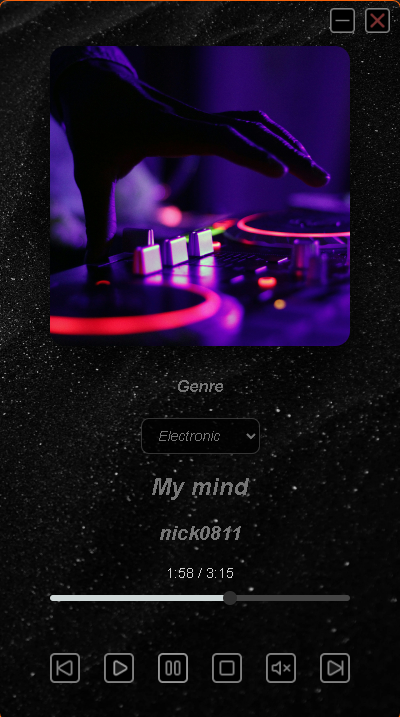
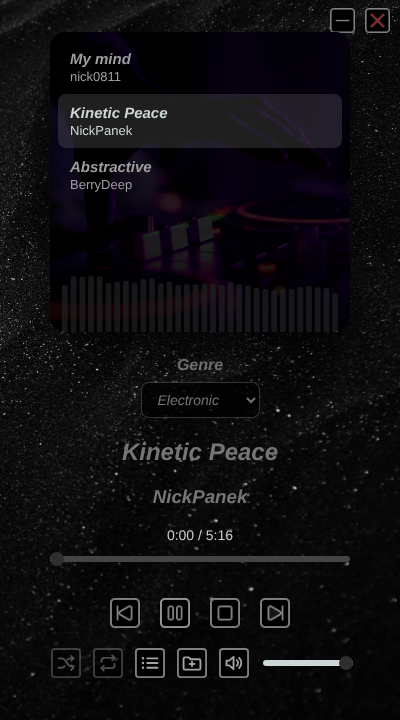
docs: update README for v1.1.0

diff --git a/README.md b/README.md
@@ -1,36 +1,70 @@
 # Kumafy
 
-A compact desktop music player built with Electron. Pick a genre, hit play, and enjoy a small library of royalty-free tracks in a minimal, frameless window.
+[![CI](https://github.com/MK-1379/kumafy/actions/workflows/ci.yml/badge.svg)](https://github.com/MK-1379/kumafy/actions/workflows/ci.yml)
+[![Latest release](https://img.shields.io/github/v/release/MK-1379/kumafy)](https://github.com/MK-1379/kumafy/releases/latest)
 
-## Screenshots
+A compact desktop music player built with Electron and vanilla JavaScript. Pick a genre or open your own files, and watch the music move in a live audio visualizer.
 
-![Piano playlist](docs/screenshots/piano.png)
-![Electronic playlist](docs/screenshots/electronic.png)
-![Pop and Indie playlist](docs/screenshots/pop-indie.png)
+**[Try the web demo](https://mk-1379.github.io/kumafy/)** · **[Download for Windows](https://github.com/MK-1379/kumafy/releases/latest)**
+
+| Visualizer | Track list | Shuffle and repeat |
+|---|---|---|
+| ![Piano playlist playing with the visualizer](docs/screenshots/piano.png) | ![Electronic playlist with the track list open](docs/screenshots/electronic.png) | ![Pop and Indie playlist with shuffle and repeat on](docs/screenshots/pop-indie.png) |
 
 ## Features
 
-- Three genre playlists (Piano, Electronic, Pop & Indie) with a cover for each
-- Play, pause, stop, mute, previous and next controls
-- Seek bar with elapsed and total time
-- Automatic advance to the next track
-- Custom frameless window with its own minimize and close buttons
+- Three genre playlists (Piano, Electronic, Pop & Indie) with royalty-free tracks
+- Open your own audio files (MP3, WAV, OGG, FLAC, M4A, AAC) with the native file dialog
+- Live audio visualizer built with the Web Audio API and a canvas
+- Play/pause, stop, previous, next, seek bar, volume and mute
+- Shuffle (Fisher-Yates) and three repeat modes: off, all and one
+- Clickable track list
+- Remembers the genre, track, volume, shuffle and repeat between sessions
+- Keyboard shortcuts and media keys, with the current track shown in the Windows media overlay
+- Accessible: real buttons with labels, visible focus, screen reader announcements and reduced motion support
+- Runs in the browser too, as a web demo on GitHub Pages
+
+## Keyboard shortcuts
+
+| Key | Action |
+|---|---|
+| Space / K | Play or pause |
+| ← / → | Seek 5 seconds |
+| ↑ / ↓ | Volume up or down |
+| N / P | Next or previous track |
+| M | Mute |
+| S | Shuffle |
+| R | Repeat mode |
+| L | Track list |
+| O | Open audio files |
+| Esc | Close the track list |
 
 ## Tech stack
 
-- [Electron](https://www.electronjs.org/) (main process, preload script, IPC)
-- HTML, CSS and vanilla JavaScript for the interface
-- [electron-builder](https://www.electron.build/) to package the Windows installer
+- [Electron](https://www.electronjs.org/) (main process, preload script, IPC, custom protocol)
+- HTML, CSS and vanilla JavaScript with ES modules
+- Web Audio API, Canvas and Media Session API
+- [Vitest](https://vitest.dev/) for unit tests and [Biome](https://biomejs.dev/) for linting and formatting
+- GitHub Actions for CI, the web demo and releases
+- [electron-builder](https://www.electron.build/) for the Windows installer
+
+## How it works
+
+**Security.** The window runs with `contextIsolation` and the Chromium sandbox, so it has no access to Node.js. The preload script exposes three functions and nothing else. A Content Security Policy only allows the app's own files, and the window cannot open popups or navigate away.
+
+**Opening local files.** The window never sees file paths. When you pick files, the main process stores their paths in an allowlist and gives the window URLs like `kumafy-media://file/1`. A custom protocol handler serves only those files, supports HTTP range requests so seeking works, and answers 404 to anything else. In the browser, the same feature uses a file input and `blob:` URLs.
+
+**Pure logic, tested.** Everything that decides something (play order, shuffle, repeat, saved state validation, keyboard mapping, range parsing, visualizer bars) lives in small functions without DOM access, covered by 59 unit tests. The DOM code only connects those functions to the interface.
 
 ## Download
 
-Grab the latest Windows installer from the [Releases page](https://github.com/MK-1379/kumafy/releases).
+Get the latest Windows installer from the [Releases page](https://github.com/MK-1379/kumafy/releases/latest).
 
 > Windows may show a SmartScreen warning because the installer is not code-signed. Click **More info**, then **Run anyway**.
 
 ## Run from source
 
-Requires [Node.js](https://nodejs.org/) 18 or later.
+Requires [Node.js](https://nodejs.org/) 22 or later.
 
 ```bash
 git clone https://github.com/MK-1379/kumafy.git
@@ -39,45 +73,60 @@ npm install
 npm start
 ```
 
-To build the installer:
+| Command | What it does |
+|---|---|
+| `npm start` | Run the desktop app |
+| `npm test` | Run the unit tests |
+| `npm run lint` | Check formatting and lint rules |
+| `npm run format` | Fix formatting |
+| `npm run dist` | Build the Windows installer in `dist/` |
 
-```bash
-npm run dist
-```
+To try the web version locally, serve the folder over HTTP, for example with `npx serve .`.
 
-The result is written to the `dist/` folder.
+## Releases
+
+Pushing a tag such as `v1.2.0` runs the release workflow: it checks that the tag matches `package.json`, runs the tests, builds the installer on a Windows runner and publishes a GitHub release with notes generated from the merged pull requests.
 
 ## Project structure
 
 ```
-audio/         MP3 files
-img/           Button icons, background, app icon and genre covers
-index.html     Player interface
-styles.css     Styles
-tracks.js      Genres and track list
-player.js      Playback logic
-main.js        Electron main process
-preload.js     Safe bridge between the window and the main process
+.github/workflows/  CI, web demo deploy and release workflows
+audio/              Bundled MP3 files
+img/                Icons, background, app icon and genre covers
+js/
+  player.js         Connects the logic to the interface
+  playback.js       Play order, shuffle, repeat and time helpers
+  storage.js        Saves and validates the player state
+  shortcuts.js      Keyboard shortcut mapping
+  visualizer.js     Web Audio analyser and canvas drawing
+  spectrum.js       Turns frequency data into bar heights
+  local-files.js    Picks local files (native dialog or file input)
+  tracks.js         Bundled genres and tracks
+test/               Unit tests
+index.html          Player interface
+styles.css          Styles
+main.js             Electron main process and media protocol
+media-range.js      HTTP range header parsing
+preload.js          Safe bridge between the window and the main process
 ```
 
 ## Adding your own tracks
 
+For a one-off, use the open files button (or press O). To bundle a track with the app:
+
 1. Copy the MP3 into `audio/`.
-2. Add an entry to the matching genre in `tracks.js`:
+2. Add an entry to the matching genre in `js/tracks.js`:
 
 ```js
-{ file: "song10.mp3", title: "My Song", artist: "Me" }
+{ file: "song10.mp3", title: "My Song", artist: "Me" },
 ```
 
-## Roadmap
+## Ideas for next versions
 
-- Volume slider
-- Shuffle and repeat
-- Visible, clickable track list
-- Keyboard shortcuts and media keys
-- Remember the last track and volume
-- Load local audio files
-- Web demo on GitHub Pages
+- Read ID3 tags (real artist, title and cover) from local files
+- Keep adding local files instead of replacing the list
+- Builds for macOS and Linux
+- Automatic updates
 
 ## License
 
